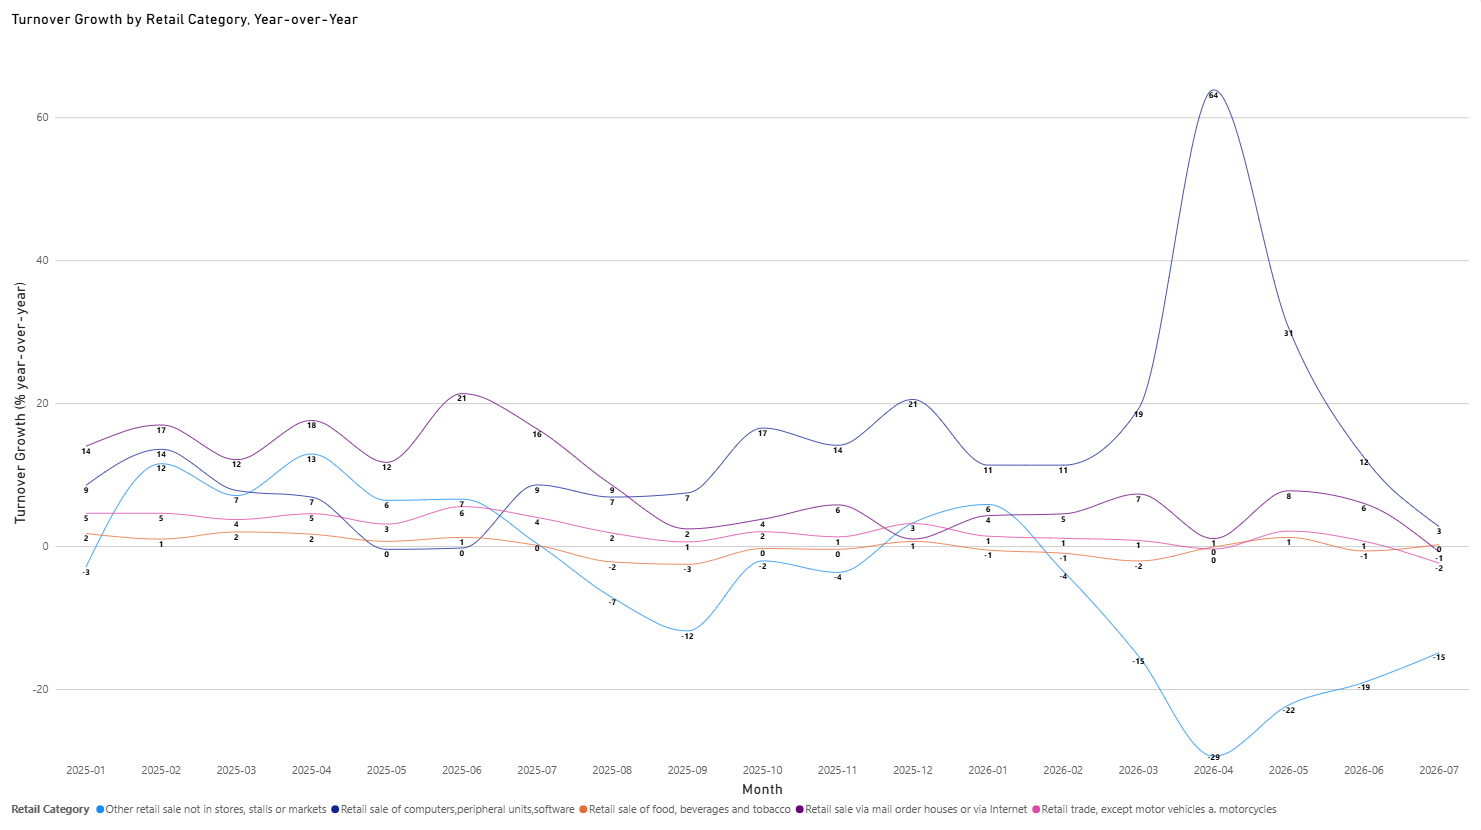
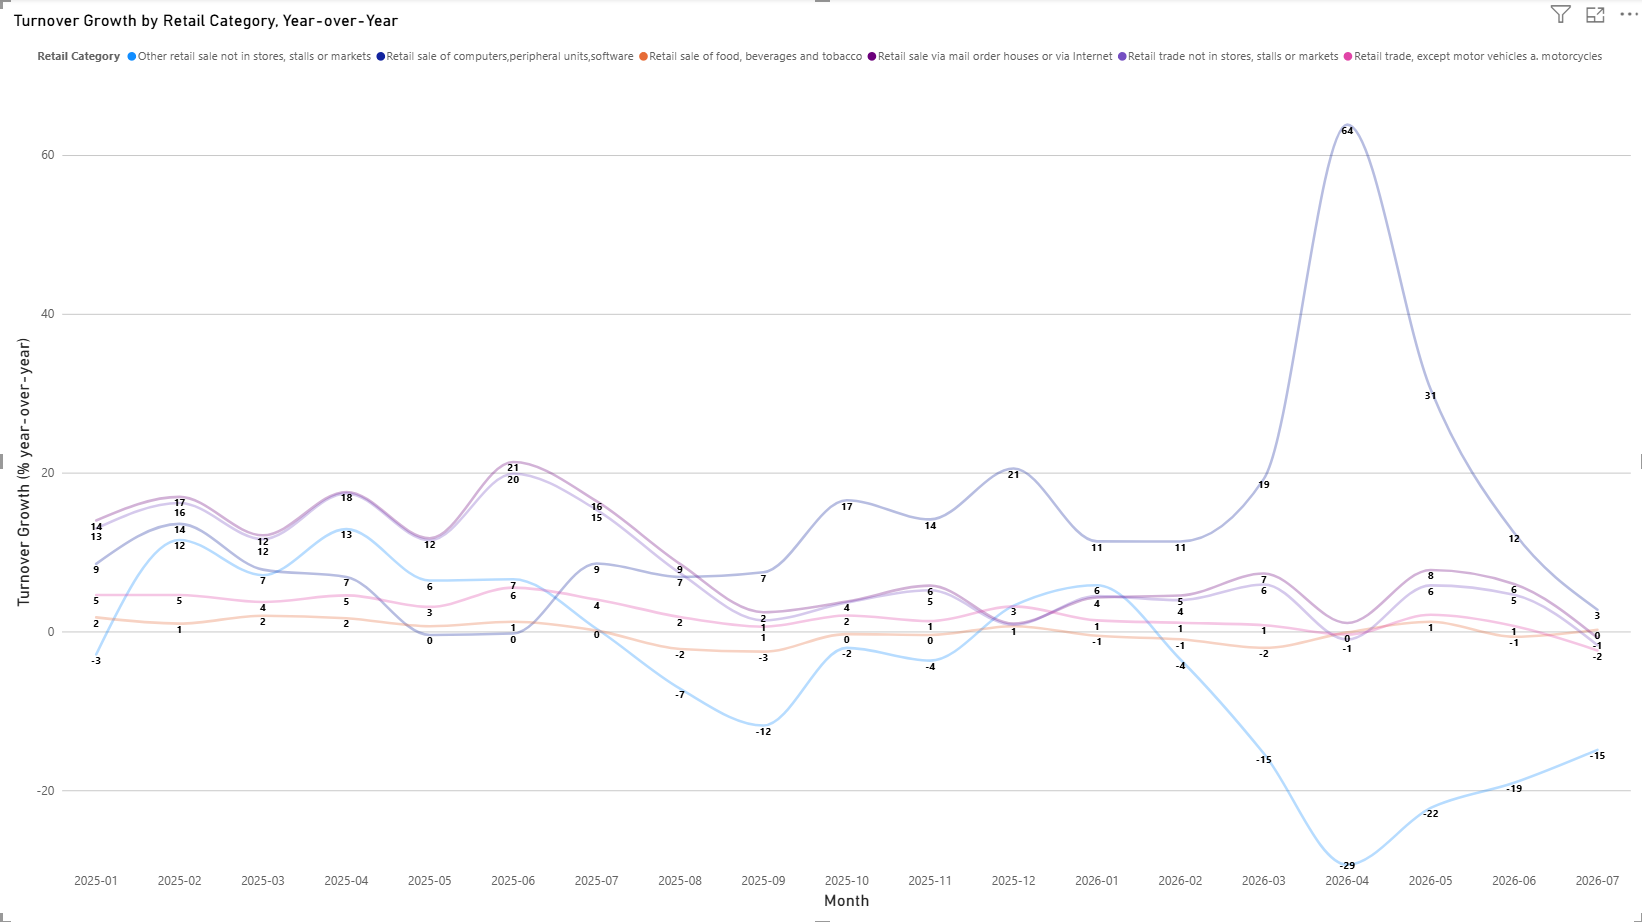
Inclusion of addtional analysis

diff --git a/ANALYSIS.md b/ANALYSIS.md
@@ -4,7 +4,7 @@
 
 Should a mid-size retail business shift inventory/marketing budget toward online vs. physical retail next quarter, and which category shows real momentum right now?
 
-**Stakeholder:** a retail chain's merchandising or expansion-planning lead — someone who'd act on this, not a hypothetical reader.
+**Stakeholder:** a retail chain's merchandising or expansion-planning lead.
 
 ## North Star metrics
 
@@ -16,23 +16,26 @@ Should a mid-size retail business shift inventory/marketing budget toward online
 
 1. **Shift budget toward online retail (`WZ08-4791`) is justified by 2025's data, but report it as a historical window, not current momentum.** Through 2025, online retail's turnover growth (+1.0% to +21.3% YoY) dramatically outpaced its own employment decline (-1.3% to -3.4% YoY) — checked against a physical-retail control (`WZ08-472`, food retail) whose turnover and employment moved together the whole period, ruling out a sector-wide artifact. For the merchandising lead: the 2025 case for online retail was real and efficiency-driven, not noise.
 2. **Don't extend that 2025 case into a current-quarter budget call without the recency caveat.** The growth premium (`growth_gap_pct`) held in double digits (13.4–23.4) through July 2025, then closed to single digits by **September 2025**, and fluctuated in the single-to-low-double-digit range (2.6–10.6) through all of 2026, with turnover YoY itself going negative in July 2026 — the first negative month in the series — while employment decline continued at an unchanged pace. A full-period average would overstate today's online-retail advantage: the premium was gone well before mid-2026, not gradually fading through it. For the same stakeholder, directly answering the North Star's "real momentum... right now," not "was there momentum in 2025."
-3. **Attribute part of 2026's cooling to real sector-wide softening, not purely online-specific saturation — but don't stop there.** The whole retail aggregate (`WZ08-47`) also decelerates through 2026 (turnover YoY 4–5% → -2.4%), so some of the online-retail cooling is a real macro trend. But the amplitude doesn't match: `WZ08-4791` swung roughly three times wider than the aggregate, and two sibling categories moved in opposite, unexplained directions in the same window (`WZ08-4799` collapsed to -29.4% YoY; `WZ08-4741` accelerated to +63.8% YoY, verified against raw index levels to rule out a low-base artifact). Both macro and category-specific dynamics are real and layered — a single-cause story would be wrong either way.
-4. **Investigate `WZ08-4741`'s surge and `WZ08-4799`'s collapse before trusting either as durable — not further chased here.** Both are real, checked findings, not data artifacts, but their causes sit outside this project's own turnover/employment tables (a product cycle, a subsidy, a competitive shift — undetermined). Named as a limitation of this analysis, not a gap to be closed with more Destatis tables.
+3. **Attribute part of 2026's cooling to real sector-wide softening, not purely online-specific saturation.** The whole retail aggregate (`WZ08-47`) also decelerates through 2026 (turnover YoY 4–5% → -2.4%), so some of the online-retail cooling is a real macro trend. But the amplitude doesn't match: `WZ08-4791` swung roughly three times wider than the aggregate, and two sibling categories moved in opposite, unexplained directions in the same window (`WZ08-4799` collapsed to -29.4% YoY; `WZ08-4741` accelerated to +63.8% YoY, verified against raw index levels to rule out a low-base artifact). Both macro and category-specific dynamics are real and layered, so a single-cause story would be wrong either way.
+4. **Investigate `WZ08-4741`'s surge and `WZ08-4799`'s collapse before trusting either as durable — chosen to not be further investigated here.** Both are real, checked findings, not data artifacts, but their causes sit outside this project's own turnover/employment tables.
+5. **Don't screen for category-level risk using a parent-category rollup alone.** `WZ08-479` (the level-3 parent of both `WZ08-4791` and `WZ08-4799`) tracks its larger, surging child almost exactly and barely moves when the smaller sibling collapses — a stakeholder checking only the parent aggregate would miss `WZ08-4799`'s -29.4% YoY collapse entirely. If a rollup category looks stable, that's not sufficient evidence its children are.
 
 ## Evidence
 
-**The headline decoupling holds, and holds against a control.** `gold_turnover_vs_employment` (turnover YoY%, constant prices, calendar-seasonal-adjusted, vs. employment YoY%) shows online retail's turnover and employment moving in opposite directions for all 19 months of overlap (Jan 2025–Jul 2026): turnover up double digits most months while employment fell every month. Food retail, the control, shows turnover and employment tracking closely, with the gap between them near zero and flipping sign repeatedly. The differentiator is online retail's 2025 revenue growth, not an unusually aggressive pace of staff cuts — by 2026 both categories show comparable employment decline.
+**The headline decoupling holds, and holds against a control.** `gold_turnover_vs_employment` (turnover YoY%, constant prices, calendar-seasonal-adjusted, vs. employment YoY%) shows online retail's turnover and employment moving in opposite directions for all 19 months of overlap (Jan 2025–Jul 2026): turnover up double digits most months while employment fell every month. Food retail, the control, shows turnover and employment tracking closely, with the gap between them near zero and flipping sign repeatedly. The differentiator is online retail's 2025 revenue growth, not an unusually aggressive pace of staff cuts, as by 2026 both categories show comparable employment decline.
 
 ![Power BI Overview page: KPI cards and the growth-gap trend for online retail](charts/page1_overview.png)
 
-**The premium is time-bound, not structural.** `growth_gap_pct` holds in double digits (13.4–23.4) from January through July 2025, then drops to single digits by September 2025 and stays in the single-to-low-double-digit range (2.6–10.6, non-monotonic) through all of 2026, with turnover YoY crossing zero in July 2026. Whether the underlying cause is a base-effect correction, genuine demand saturation, or a broader consumer-spending slowdown is not established from this data alone (the series starts January 2024, so only one full year of prior-year comparison exists) — flagged as an open, unresolved question rather than forced to a conclusion.
+**The premium is time-bound, not structural.** `growth_gap_pct` holds in double digits (13.4–23.4) from January through July 2025, then drops to single digits by September 2025 and stays in the single-to-low-double-digit range (2.6–10.6, non-monotonic) through all of 2026, with turnover YoY crossing zero in July 2026. Whether the underlying cause is a base-effect correction, genuine demand saturation, or a broader consumer-spending slowdown is not established from this data alone.
 
 **Macro and category-specific effects are both real, checked against three additional sectors.** `WZ08-47` (whole retail trade) decelerates over the same window (turnover YoY ~4–5% in early 2025 to -2.4% by July 2026), confirming a real, modest sector-wide trend. But `WZ08-4799` (a sibling non-store retail category) doesn't decelerate gently like the aggregate — it collapses to -29.4% YoY by April 2026, with employment declining far less sharply (-3% to -6%) — a much sharper, distinct pattern. `WZ08-4741` (a physical-store category picked to test the "losing to e-commerce" hypothesis) shows the opposite of what it was picked to demonstrate: turnover accelerates to +63.8% YoY in April 2026, with employment essentially flat. That figure was verified against the underlying raw index levels (April 2025 = 116.7, April 2026 = 191.2 — both plausible, ruling out a low-comparison-base artifact).
 
-![Power BI Category comparison page: turnover YoY% across online retail, its control, the retail aggregate, and the two divergent siblings](charts/page2_category_comparison.png)
+**The parent-category rollup masks the sibling collapse it sits above.** Adding `WZ08-479` (`WZ08-4791` and `WZ08-4799`'s shared level-3 parent) to the same chart shows it tracking `WZ08-4791` within 1–2 points at nearly every month, while `WZ08-4799`'s collapse to -29.4% YoY barely registers in it — the larger sibling's revenue base dominates the aggregate too completely for the smaller sibling's problem to surface at that altitude.
+
+![Power BI Category comparison page: turnover YoY% across online retail, its control, the retail aggregate, the two divergent siblings, and their shared parent category](charts/page2_category_comparison.png)
 
 ## Data and reproduction
 
 Full data-acquisition detail (registration, pull mechanics, table structure, gotchas): [`DATA_SOURCES.md`](DATA_SOURCES.md). Star-schema SQL: `sql/`. Ingestion/dimension-building scripts: `scripts/`.
 
-**Limitations.** Correlation-style comparisons only, not causal — no control for broader macroeconomic conditions beyond the sector-vs-sector checks above. The series starts January 2024, so no more than one full year of prior-year comparison exists at any point. `WZ08-4741`'s surge and `WZ08-4799`'s collapse are named but not explained by this dataset.
+**Limitations.** Correlation-style comparisons only, not causal, so expect no control/correction for broader macroeconomic conditions beyond the sector-vs-sector checks above. `WZ08-4741`'s surge and `WZ08-4799`'s collapse are named but not explained by this dataset.

diff --git a/DATA_SOURCES.md b/DATA_SOURCES.md
@@ -17,21 +17,21 @@ The German Federal Statistical Office's public statistics database. Free, no cos
 
 **Endpoint:** `POST data/table`, with a body like `name=<table-id>&area=all&compress=true&timeslices=3&language=en`.
 
-**Send only the parameters you need — nothing extra "for completeness."** The API treats a parameter that's present-but-blank differently from one that's simply absent, and this isn't documented anywhere. Concretely: adding `startyear`/`endyear` as empty strings silently narrows the result to the current year only; omitting them entirely returns the full history. If a pull looks truncated, check for exactly this before assuming the API or the table is at fault.
+**Send only the parameters you need."** The API treats a parameter that's present-but-blank differently from one that's simply absent, and this isn't documented anywhere. Concretely: adding `startyear`/`endyear` as empty strings silently narrows the result to the current year only; omitting them entirely returns the full history. If a pull looks truncated, check for exactly this before assuming the API or the table is at fault.
 
-**`timeslices` may be silently ignored** depending on the method — a request with `timeslices=3` can still return the full history regardless of the value given. Don't rely on it to bound response size; if a table is small enough, it's simpler to just pull it whole every time than to fight this parameter.
+**`timeslices` may be silently ignored** depending on the method a request with `timeslices=3` can still return the full history regardless of the value given.
 
 **Response shape:** the response is a JSON envelope; the actual table is an embedded **CSV string** inside `Object.Content`, not nested JSON. Expect:
 - ~10 metadata/header lines first (table name, title, unit, column headers), then data rows.
-- `;`-delimited fields, with a **period** as the decimal separator (not the German-locale comma) — no locale conversion needed on the way in.
+- `;`-delimited fields, with a **period** as the decimal separator.
 - Missing values as the literal string `-` (and, in some tables, also `x` — see below) rather than a blank field. Both need explicit mapping to null; naively parsing either as a float will raise.
-- A footer line (`Federal Statistical Office, Wiesbaden` + a `created:` timestamp) — worth capturing per-pull if you want to track data freshness.
+- A footer line (`Federal Statistical Office, Wiesbaden` + a `created:` timestamp) is worth capturing per-pull if you want to track data freshness.
 
 **A table can carry more than one missing-value placeholder.** `-` generally means "nothing to report"; `x` means "not meaningful/not computable" and shows up specifically where a value can't be computed (e.g. a year-over-year change with no prior-year baseline to compare against). Check a table's actual raw response for both before assuming one placeholder generalizes from another table you've already handled.
 
 **A table's WZ08 (or other classification) codes may mix more than one scheme.** Some tables carry both a standard hierarchical code set (e.g. `47`, `471`, `4711`) and a second, differently-suffixed set that's an alternate regrouping rather than a finer breakdown of the same hierarchy (e.g. `45-01` alongside plain `45`). Filter to the specific codes you actually want rather than ingesting every code blindly.
 
-**Before building a pipeline around a table, check its actual raw structure directly** rather than trusting a name or category description — tables with similar names can have genuinely different shapes (e.g. a regional breakdown that turns out to carry no sector dimension at all, or an "annual" table that's just a coarser rollup of a monthly one already in use). Destatis's own catalog descriptions aren't always enough to tell tables like this apart before pulling them.
+**Before building a pipeline around a table, check its actual raw structure directly** rather than trusting a name or category description — tables with similar names are prone to have genuinely different shapes (e.g. a regional breakdown that turns out to carry no sector dimension at all, or an "annual" table that's just a coarser rollup of a monthly one already in use). Unfortunately, Destatis's own catalog descriptions aren't always enough to tell tables like this apart before pulling them.
 
 ## The tables used in this project
 
@@ -46,7 +46,7 @@ The German Federal Statistical Office's public statistics database. Free, no cos
 
 **`employment_index` (45212-0002)** — one value series per row (`index_value`, `yoy_change_pct`), not the six-column split above — there's a single underlying measurement method here, not six. Row shape: `code;description;year;month;index_value;yoy_change_pct`. Uses both `-` and `x` as missing-value placeholders (see above).
 
-**Two adjacent tables in the same statistic family were checked and are not used here:** 45212-0014 (a regional/Bundesland breakdown — carries no WZ08 sector dimension at all, so it can't answer a sector-level question regardless of row count) and 45212-0001/0003 (annual rollups of the same series already used at monthly grain, so pulling them would add no information). Worth knowing if extending this project regionally or to a different time grain — the regional cut isn't available at the sector level for this statistic.
+**Two adjacent tables in the same statistic family were considered and are not used here:** 45212-0014 (a regional/Bundesland breakdown — carries no WZ08 sector dimension at all, so it can't answer a sector-level question regardless of row count) and 45212-0001/0003 (annual rollups of the same series already used at monthly grain, so pulling them would add no information). 
 
 ## Automated refresh
 
@@ -58,4 +58,4 @@ Both tables refresh on a schedule via an n8n workflow, reusing the same request/
 
 ![n8n pipeline: two parallel branches, one per table, running the four-step pattern above](n8n/workflow.png)
 
-**The workflow definition itself isn't published here.** Its GENESIS and Supabase credentials are stored as static values on the HTTP Request nodes rather than in n8n's credential vault, since the workflow isn't meant to leave a private account — exporting it would leak those values in plain text. The three Code node scripts above and the canvas screenshot (with connection URLs kept out of it) are the pipeline artifacts checked into this repo; reproducing the schedule/auth/upsert nodes from the description above is straightforward in any workflow tool.
+**The workflow definition itself will not be published here.** Its GENESIS and Supabase credentials are stored as static values on the HTTP Request nodes rather than in n8n's credential vault for privacy reasons. The three Code node scripts above and the canvas screenshot (with connection URLs kept out of it) are the pipeline artifacts checked into this repo. Reproducing the schedule/auth/upsert nodes from the description above is straightforward in any workflow tool.

diff --git a/README.md b/README.md
@@ -39,4 +39,4 @@ n8n/         the monthly-refresh workflow's Code node scripts + a canvas screens
 
 ## Tool stack
 
-Python (ingestion) · Supabase/Postgres (star schema) · Power BI (dashboard) · Excel (pivot workbook) · n8n (scheduled refresh).
+Python (ingestion) · Supabase/Postgres (database of choice) · Power BI (dashboard) · Excel (pivot workbook) · n8n (scheduled refresh).
